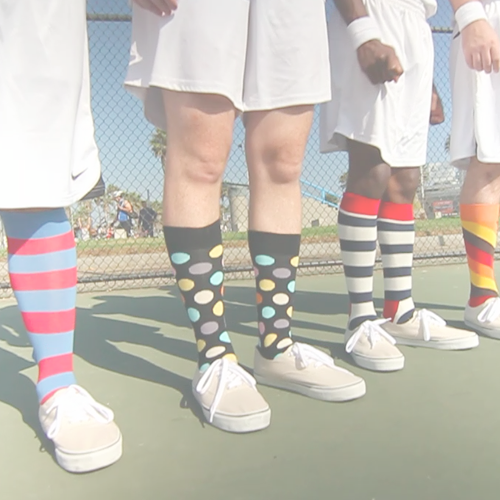
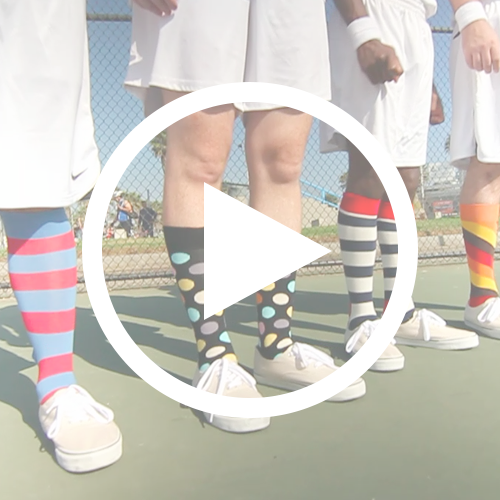
fixed the video preview hover on index

Changed region(s): [[0.15, 0.15, 0.84, 0.84], [0.39, 0.36, 0.66, 0.63]]

diff --git a/css/style.css b/css/style.css
@@ -944,21 +944,20 @@ background-color: #1abc9c;
 	color: black;
 }
 
-
-.play-button {
-	display: block;
-	background: url("../images/play-button-sprite.png") no-repeat;
-	height: 186px;
-	width: 186px;
-	position: absolute;
-	margin-left: 137px;
-	margin-top: 151px;
-	}
-
-.youtube:hover .play-button{
-       background-position: -189px 0;
+.play-video{
+	margin-top: 40px;
+	background: url("../images/sock-video-preview-picture.png") no-repeat;
+	background-position:center; 
+	height: 500px;
+	width: 100%;
+	text-indent: -99999px;
 }
+.play-video:hover{
+	margin-top: 40px;
+	background: url("../images/sock-video-preview-picture-hover.png") no-repeat;
+	background-position:center; 
 
+}
 /*--------FOXYCART---------*/
 .help-block {
 	font-size: .8em;

diff --git a/sock-subscription.php b/sock-subscription.php
@@ -57,9 +57,9 @@ include_once('header.php');
 			</div>
 
 			<div class="col-md-4">
-				<input type="radio" name="name" id="6months" value="Six%20Months%20Subscription&price=72.00&code=6m&cart=checkout&category=6&2:name=Six%20Months%20Subscription%20Free&2:price=0.00&2:sub_frequency=1m&empty=true&2:code=free&2:sub_enddate=<?php
+				<input type="radio" name="name" id="6months" value="Six%20Months%20Subscription&price=72.00&code=6m&category=6&2:name=Six%20Months%20Subscription%20Free&2:price=0.00&2:sub_frequency=1m&empty=true&2:code=free&2:sub_enddate=<?php
 echo date('Ymd', strtotime("+6 month +1 day"));
-?>"/>
+?>&cart=checkout"/>
 				    <label class="tile radio-duration next" for="6months">
 				    	<div class="information">
 				    	<h3>Six Months</h3>
@@ -77,9 +77,9 @@ echo date('Ymd', strtotime("+6 month +1 day"));
 
 			<div class="col-md-4">
 
-				<input type="radio" name="name" id="12months" value="Twelve%20Months%20Subscription&price=144.00&code=12m&cart=checkout&category=12&2:name=Twelve%20Months%20Subscription%20Free&2:price=0.00&2:sub_frequency=1m&empty=true&2:code=free&2:sub_enddate=<?php
+				<input type="radio" name="name" id="12months" value="Twelve%20Months%20Subscription&price=144.00&code=12m&category=12&2:name=Twelve%20Months%20Subscription%20Free&2:price=0.00&2:sub_frequency=1m&empty=true&2:code=free&2:sub_enddate=<?php
 echo date('Ymd', strtotime("+12 month +1 day"));
-?>"/>
+?>&cart=checkout"/>
 				    <label class="tile radio-duration next" for="12months">
 				    	<div class="information">
 					 	<h3>Twelve Months</h3>

diff --git a/index.php b/index.php
@@ -191,14 +191,16 @@ include_once('header.php');
       
       <hr class="featurette-divider">
 
-       
         <div class="row featurette">
-        <div class="col-md-5">
-          <a class="youtube" href="//www.youtube.com/embed/nGTxZukeAQM">
-            <span class="play-button"></span>
-            <img class="featurette-image img-responsive" src="./images/sock-video-preview-picture.png" alt="Watch our sock video">
-          </a>
-        </div>
+
+        <div class="col-md-5">  
+        <a class="youtube" href="//www.youtube.com/embed/nGTxZukeAQM">
+          <div class="play-video">
+                      Play Video
+          
+          </div>
+        </a>
+      </div>
         <div class="col-md-7">
           <h2 class="featurette-heading">Watch Our Video. <span class="text-muted">Now.</span></h2>
           <p class="lead">So you’re excited about your impending transformation to greatness, but you apprehensive about coming off like some type of superhero. Well, don’t worry! You’re not  going to possess magical abilities to fly or spin webs any time soon; after all, we’re sending you socks. </p>
